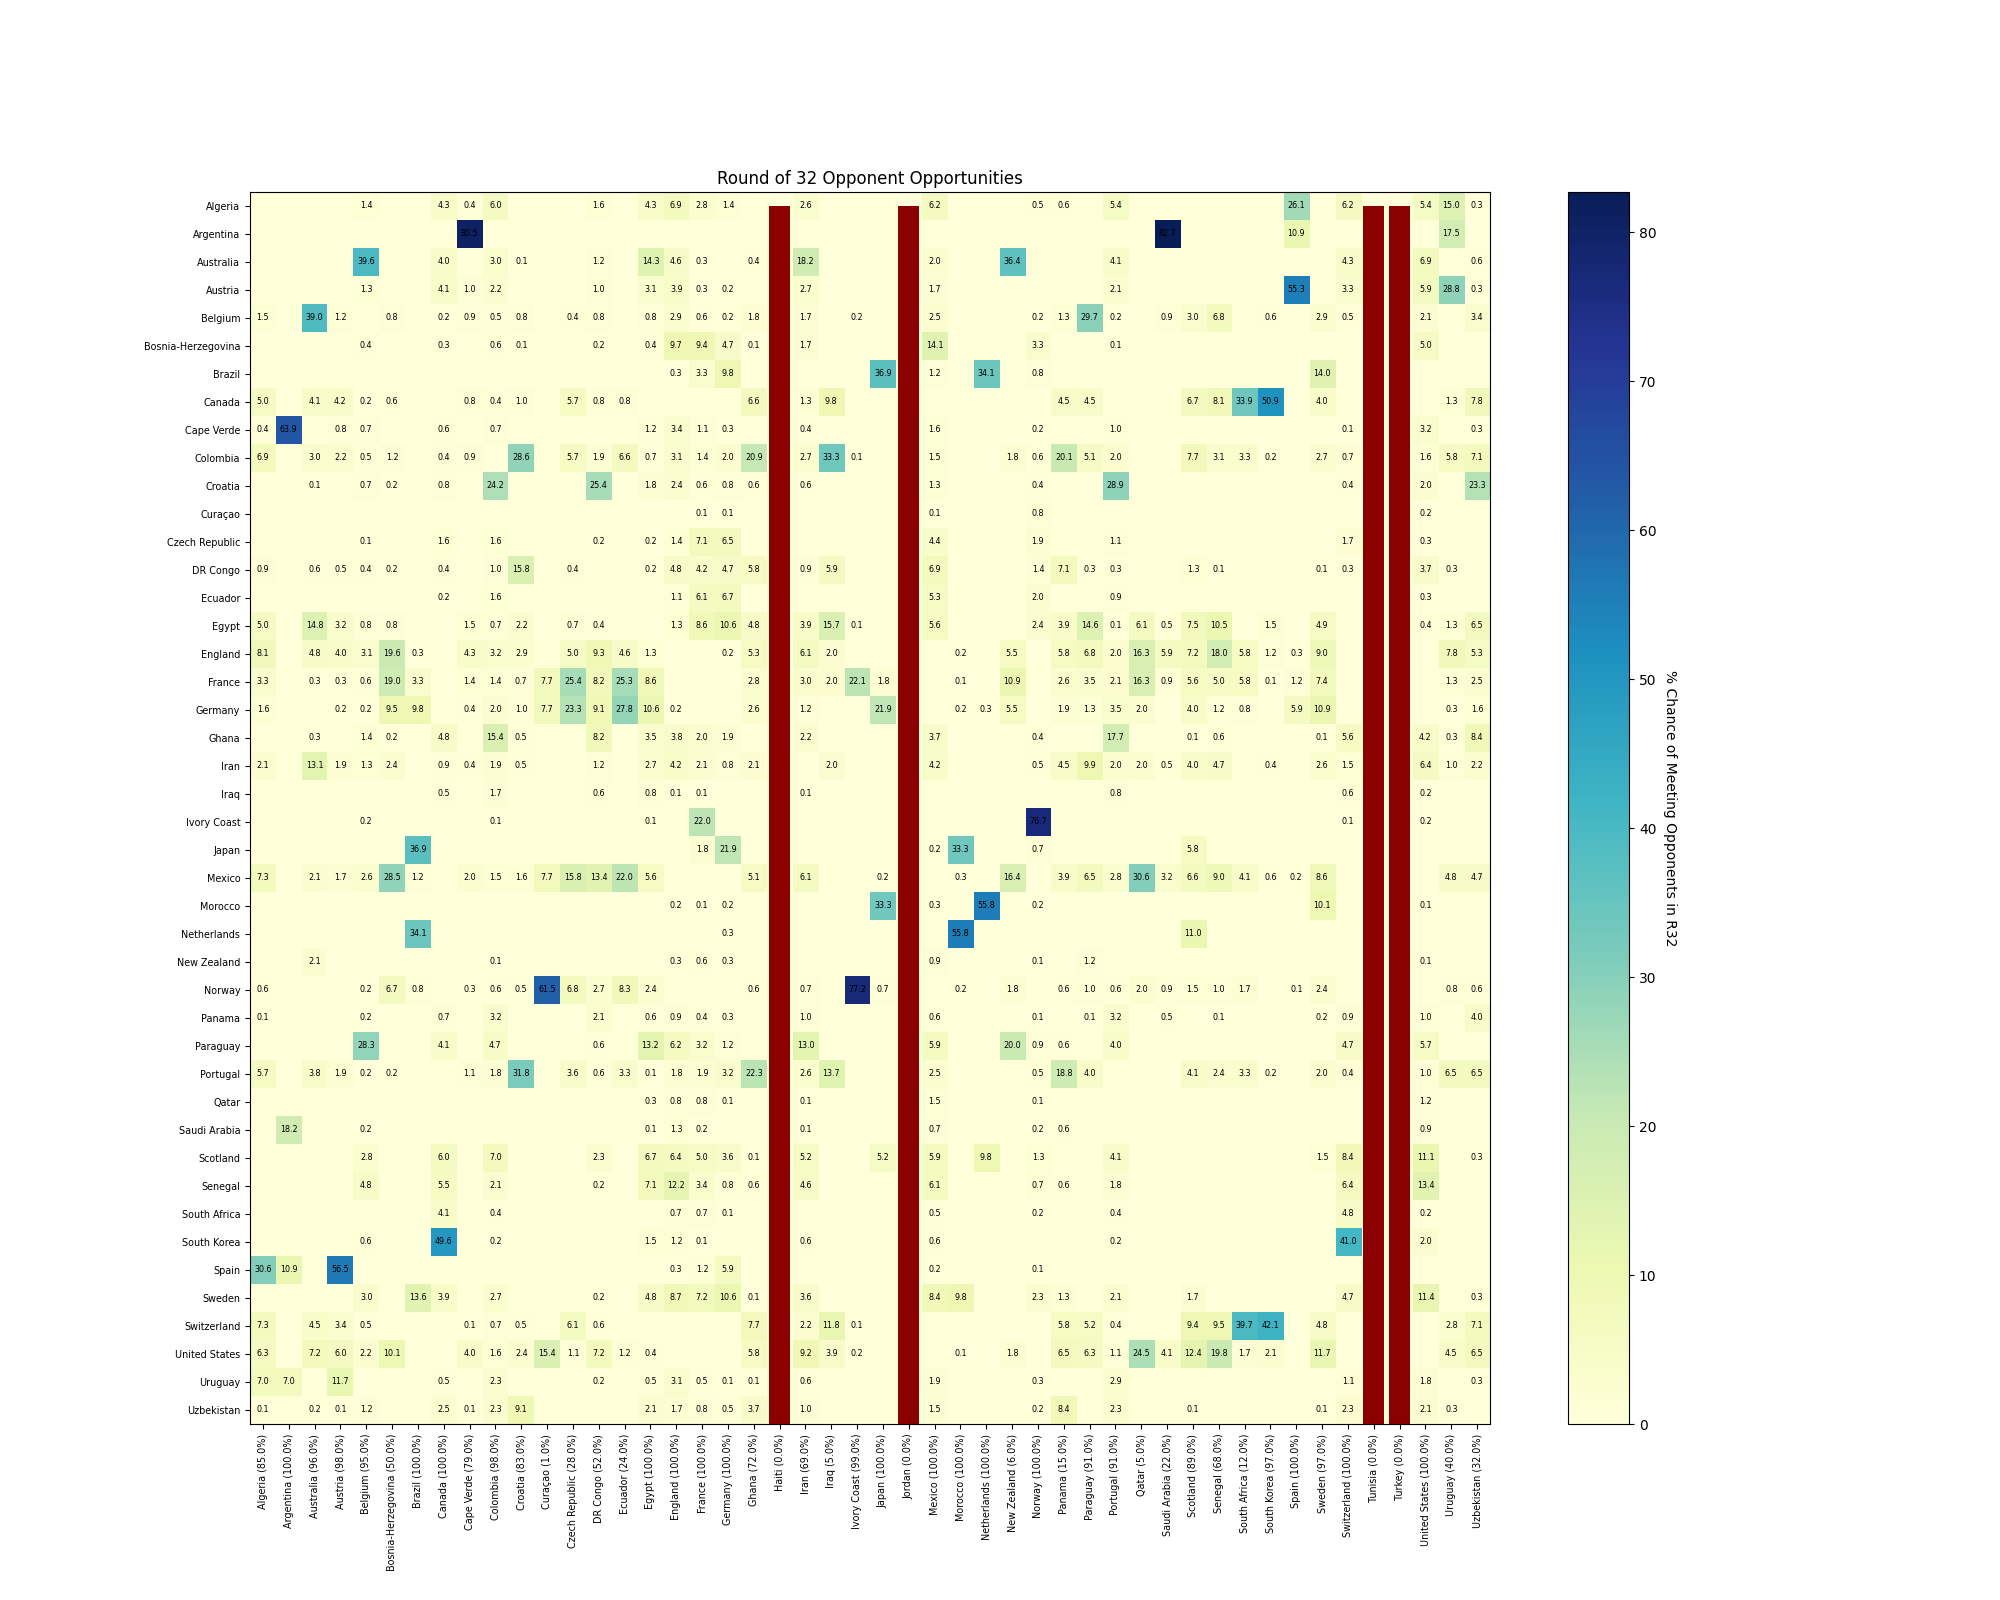
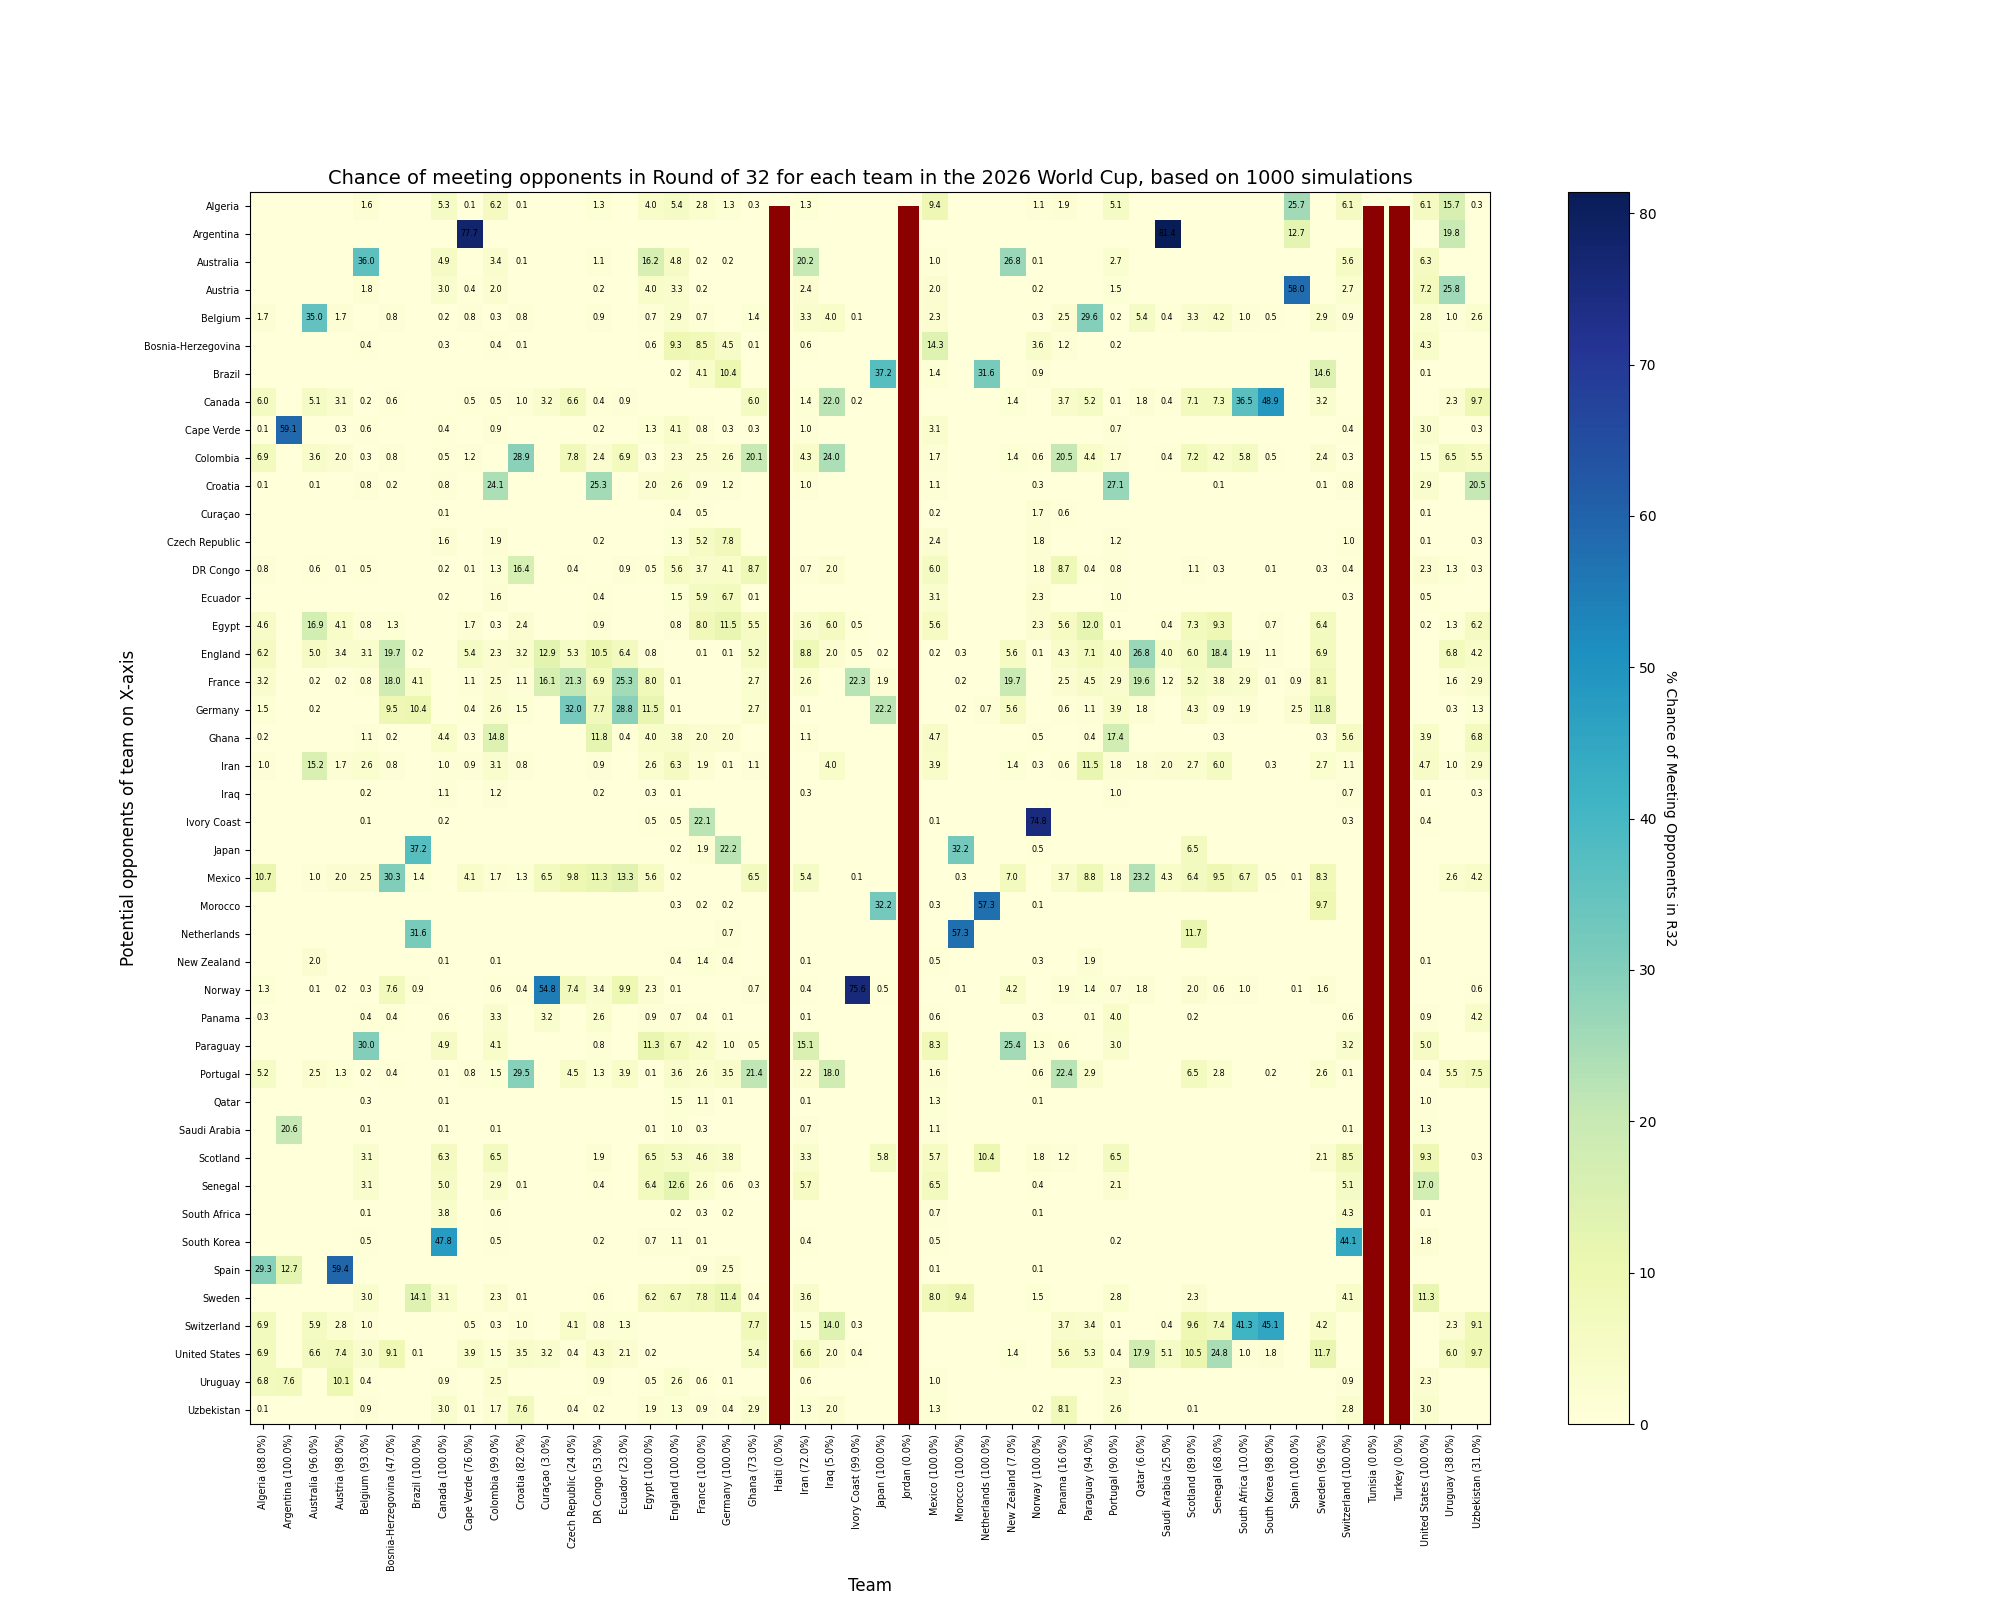
add correct axis-labels and title

diff --git a/football_wc_main.py b/football_wc_main.py
@@ -143,8 +143,10 @@ def main_tournament():
                 # if value is 0.0 do not print.
                 if r32_opponent_oppotunities_df.iloc[i, j] != 0.0:
                     plt.text(j, i, f"{r32_opponent_oppotunities_df.iloc[i, j]:.01f}", ha="center", va="center", color="black", size = 'xx-small')
-
-        plt.title("Round of 32 Opponent Opportunities")
+        # add x-axis label as "Teams" and y-axis label as "Opponents"
+        plt.xlabel("Team", fontsize=12)
+        plt.ylabel("Potential opponents of team on X-axis", fontsize=12)
+        plt.title(f"Chance of meeting opponents in Round of 32 for each team in the 2026 World Cup, based on {config.get('simulations').get('tournaments')} simulations", fontsize=14)
         plt.savefig(f"figures/wc2026_simulation_r32_opponent_oppotunities_{datetime.now().strftime('%Y%m%d')}.png")
         plt.close()
 